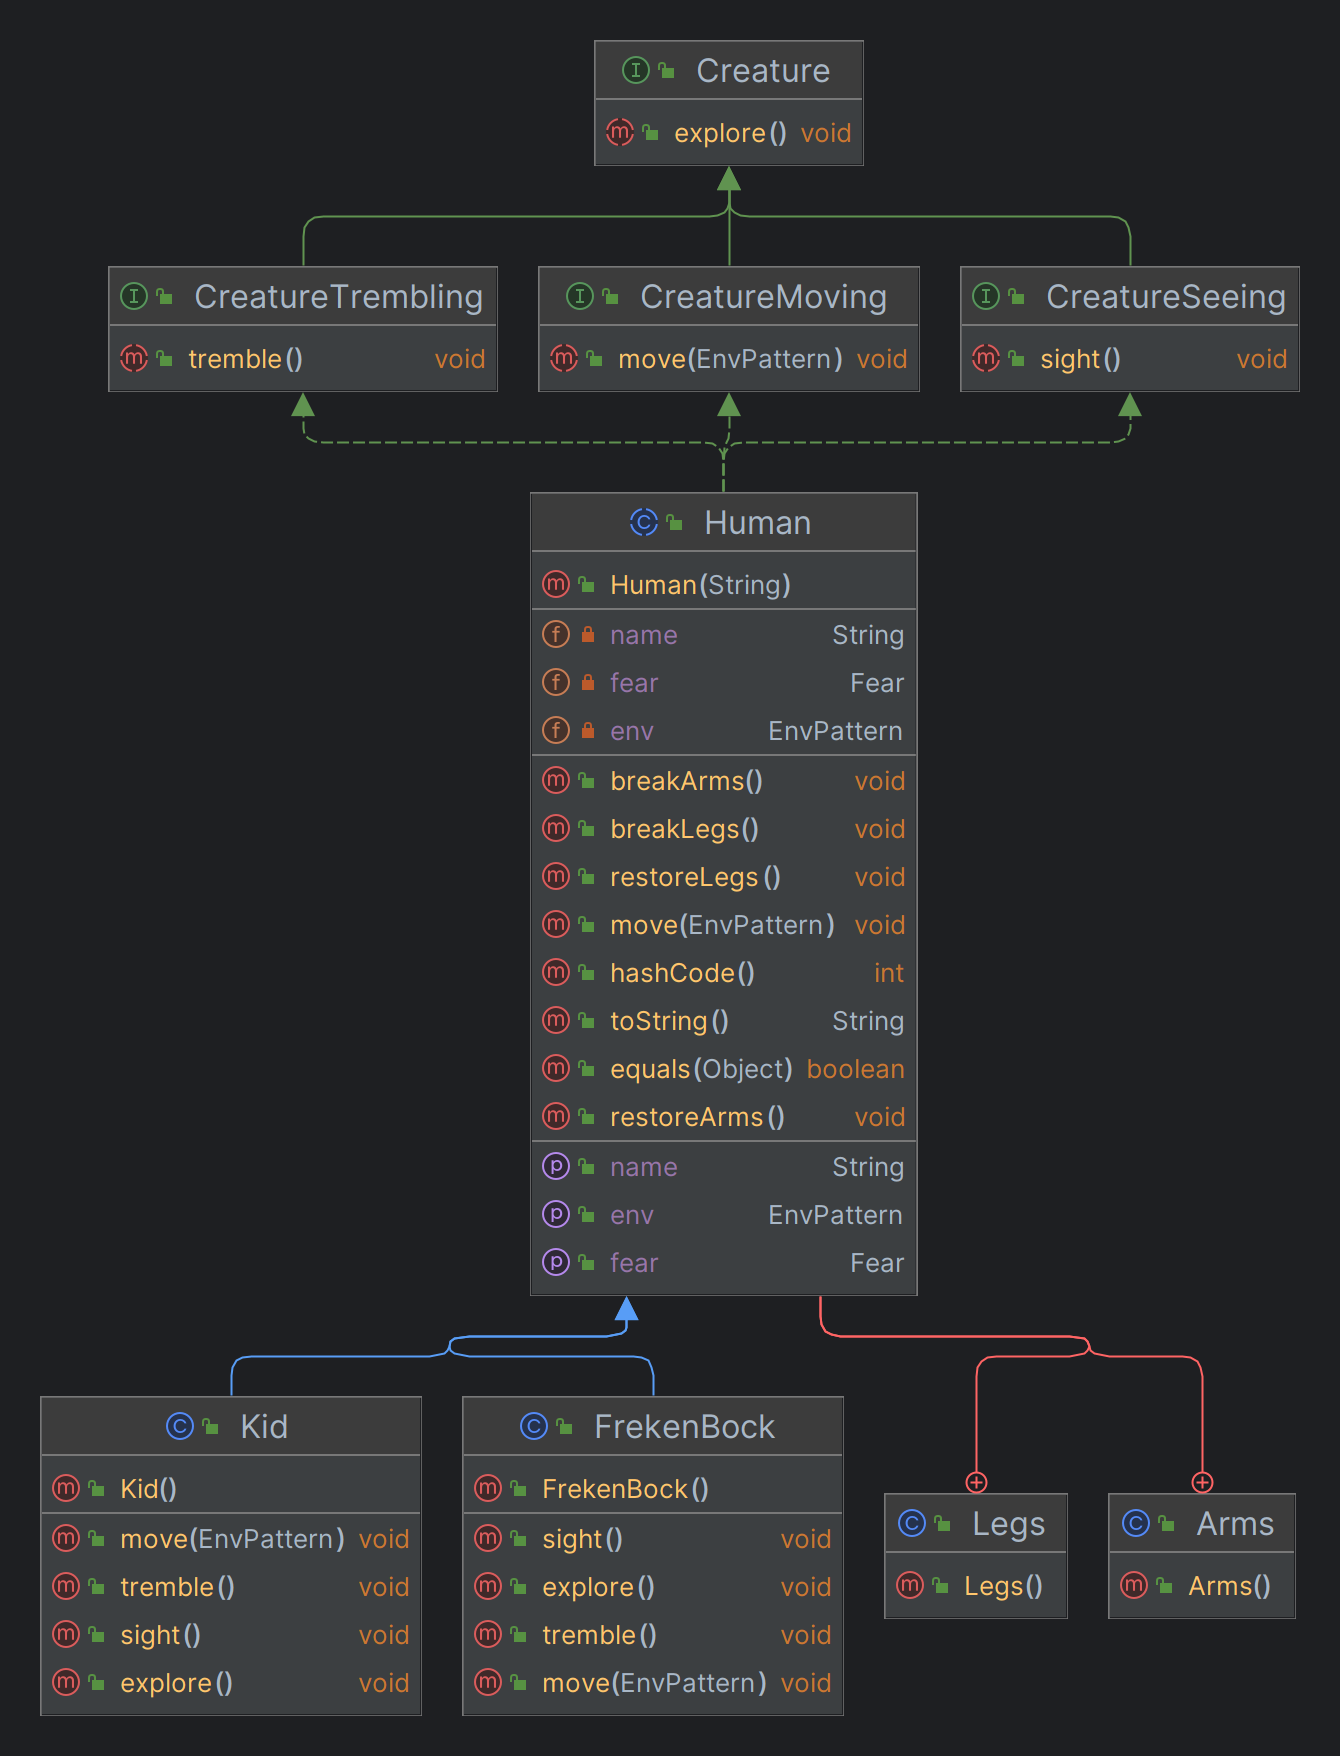
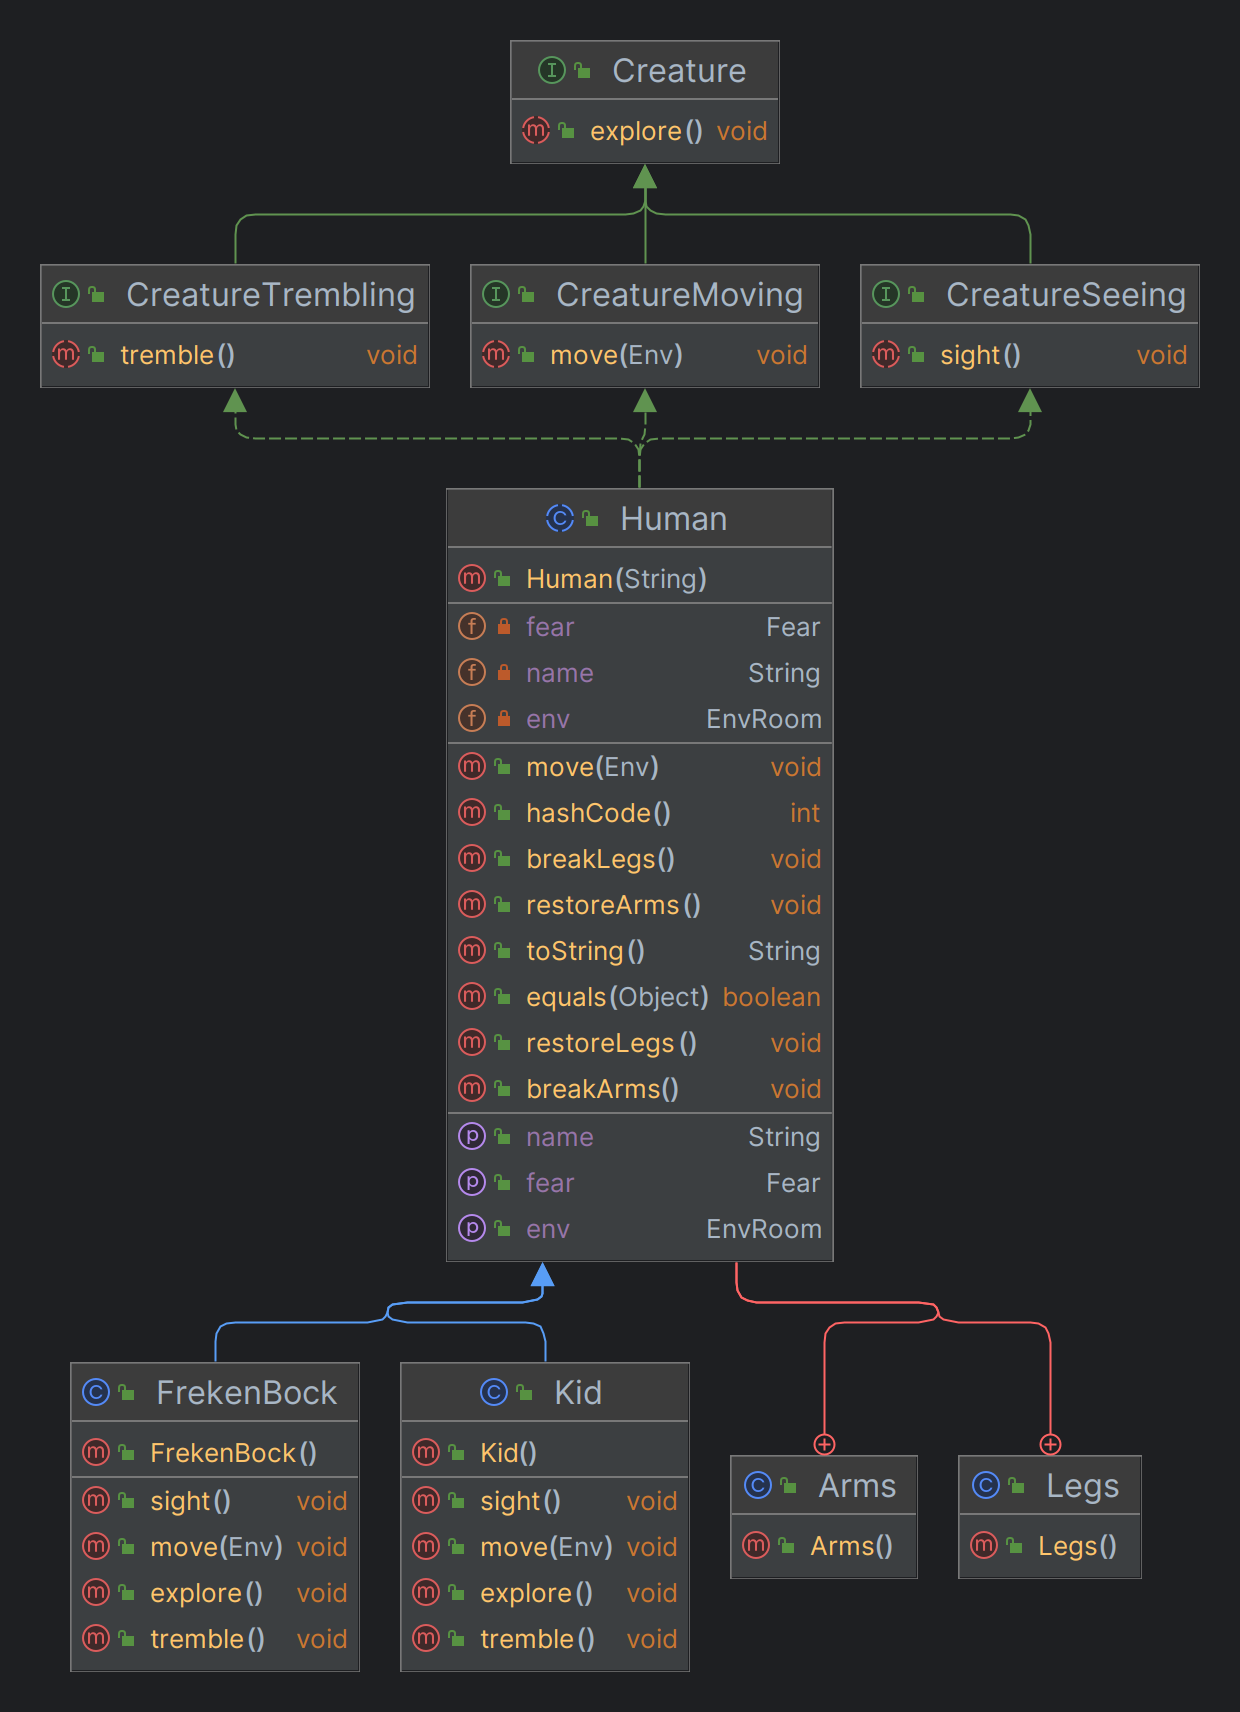
Lab 3 done, working on lab 4

Changed region(s): [[0.0306, 0.0, 0.9806, 0.9907], [0.7968, 0.743, 0.8274, 0.7739]]

diff --git a/src/lab3/env/RoomWorld.java b/src/lab3/env/RoomWorld.java
@@ -4,17 +4,17 @@ import lab3.*;
 
 import java.util.Random;
 
-public class RoomWorld extends EnvPattern implements EnvInput, EnvOutput, World {
+public class RoomWorld extends EnvRoom implements EnvInput, EnvOutput, World {
     public Human[] humans;
 
-    public RoomWorld(String name, EnvPattern[] env, Human ... humans) {
+    public RoomWorld(String name, EnvRoom[] env, Human ... humans) {
         super(name, env);
         this.humans = humans;
     }
 
     @Override
     public void enter(CreatureMoving c) {
-        EnvPattern door = find("Входная дверь");
+        EnvRoom door = findEnv("Входная дверь");
 
         if (door instanceof Door) {
             ((Door)door).open();
@@ -26,7 +26,7 @@ public class RoomWorld extends EnvPattern implements EnvInput, EnvOutput, World 
 
     @Override
     public void leave(CreatureMoving c) {
-        EnvPattern door = find("Входная дверь");
+        EnvRoom door = findEnv("Входная дверь");
 
         if (door instanceof Door) {
             ((Door)door).open();
@@ -40,7 +40,7 @@ public class RoomWorld extends EnvPattern implements EnvInput, EnvOutput, World 
     public void touch(Human h) {
         System.out.println(h.getName() +
                 " зачем-то прикоснулся к комнате\nКомната сочла это приятным и возбудилась");
-        find().touch(h);
+        findEnv().touch(h);
     }
 
     private void separate() {
@@ -48,10 +48,10 @@ public class RoomWorld extends EnvPattern implements EnvInput, EnvOutput, World 
     }
 
     public void simulate(int steps) {
-        if (find("Входная дверь") != null) {
+        if (findEnv("Входная дверь") != null) {
             for (int i = 0; i < steps; i++) {
                 // получаем случайную среду и случайного человека
-                EnvPattern rEnv = find();
+                EnvRoom rEnv = findEnv();
                 Human rHuman = humans[new Random().nextInt(humans.length)];
 
                 if(rHuman.getEnv() != null) {

diff --git a/src/lab3/EnvRoom.java b/src/lab3/EnvRoom.java
@@ -4,29 +4,29 @@ import java.util.Arrays;
 import java.util.Objects;
 import java.util.Random;
 
-public abstract class EnvPattern implements Env{
-    private EnvPattern[] env = {};
+public abstract class EnvRoom implements Env{
+    private EnvRoom[] env = {};
 
     private String name;
 
-    public EnvPattern(String name) { setName(name);}
-    public EnvPattern(String name, EnvPattern[] env) {
+    public EnvRoom(String name) { setName(name);}
+    public EnvRoom(String name, EnvRoom[] env) {
         setName(name);
         setEnv(env);
     }
 
-    public EnvPattern[] getEnv() { return env; }
+    public EnvRoom[] getEnv() { return env; }
 
-    public void setEnv(EnvPattern[] env) {
+    public void setEnv(EnvRoom[] env) {
         this.env = env;
     }
 
-    public EnvPattern find(){
+    public EnvRoom findEnv(){
         int r = new Random().nextInt(env.length);
         return env[r];
     }
-    public EnvPattern find(String name){
-        for (EnvPattern env: getEnv()) if(Objects.equals(env.getName(), name)) return env;
+    public EnvRoom findEnv(String name){
+        for (EnvRoom env: getEnv()) if(Objects.equals(env.getName(), name)) return env;
         return null;
     }
 
@@ -39,7 +39,7 @@ public abstract class EnvPattern implements Env{
     }
 
     public void touchEnv(Human h) {
-        for (EnvPattern e: getEnv()) {
+        for (EnvRoom e: getEnv()) {
             e.touch(h);
         }
     }
@@ -47,7 +47,7 @@ public abstract class EnvPattern implements Env{
     @Override
     public boolean equals(Object o) {
         if (this == o) return true;
-        if (!(o instanceof EnvPattern env1)) return false;
+        if (!(o instanceof EnvRoom env1)) return false;
 
         if (!Arrays.equals(env, env1.env)) return false;
         return name.equals(env1.name);

diff --git a/src/lab3/Main.java b/src/lab3/Main.java
@@ -10,18 +10,16 @@ public class Main {
         Window windowCourt = new Window("Окно на внутренний двор");
         Window windowStreet = new Window("Окно на улицу");
         Bell bell = new Bell("Колокол на крыше");
-        Cord cord = new Cord("Шнут от колокола", new EnvPattern[]{bell});
+        Cord cord = new Cord("Шнут от колокола", new EnvRoom[]{bell});
 
         FrekenBock frekenBock = new FrekenBock();
         Kid kid = new Kid();
 
-        RoomWorld roomWorld = new RoomWorld("Комната", new EnvPattern[]{door, windowCourt, windowStreet, cord}, frekenBock, kid);
-        roomWorld.simulate(5);
+        RoomWorld roomWorld = new RoomWorld("Комната", new EnvRoom[]{door, windowCourt, windowStreet, cord}, frekenBock, kid);
+        roomWorld.simulate(6);
     }
 }
 
-//    отличие отнерфейсов от абстрактных классов
-//    solid
-//    настледование и реализация интерфейсов
-//    дефолтные методы в интерфейсах
-//    как связаны hashcode и equals
+// Называть интерфейсы прилагательными
+// Функц программирование
+// Enum

diff --git a/src/lab3/Human.java b/src/lab3/Human.java
@@ -1,6 +1,6 @@
 package lab3;
 
-public abstract class Human implements CreatureSeeing, CreatureTrembling, CreatureMoving{
+public abstract class Human implements Creature, CreatureSeeing, CreatureTrembling, CreatureMoving{
     public Legs legs = new Legs();
     public Arms arms = new Arms();
 
@@ -8,7 +8,7 @@ public abstract class Human implements CreatureSeeing, CreatureTrembling, Creatu
 
     private String name;
 
-    private EnvPattern env;
+    private EnvRoom env;
 
     public Human(String name) {
         setName(name);
@@ -30,12 +30,12 @@ public abstract class Human implements CreatureSeeing, CreatureTrembling, Creatu
         this.name = name;
     }
 
-    public EnvPattern getEnv() {
+    public EnvRoom getEnv() {
         return env;
     }
 
     @Override
-    public void move(EnvPattern env) {
+    public void move(EnvRoom env) {
         this.env = env;
     }
 

diff --git a/src/lab3/humans/Kid.java b/src/lab3/humans/Kid.java
@@ -1,9 +1,6 @@
 package lab3.humans;
 
-import lab3.CurtainState;
-import lab3.EnvPattern;
-import lab3.Fear;
-import lab3.Human;
+import lab3.*;
 import lab3.env.Cord;
 import lab3.env.Window;
 
@@ -25,7 +22,7 @@ public class Kid extends Human {
     }
 
     @Override
-    public void move(EnvPattern env) {
+    public void move(EnvRoom env) {
         super.move(env);
         if(env != null) System.out.println(getName() + " переместился к " + env.getName());
         else System.out.println(getName() + " переместился в пустоту");

diff --git a/src/lab3/humans/FrekenBock.java b/src/lab3/humans/FrekenBock.java
@@ -1,6 +1,6 @@
 package lab3.humans;
 
-import lab3.EnvPattern;
+import lab3.EnvRoom;
 import lab3.Fear;
 import lab3.Human;
 import lab3.env.Cord;
@@ -21,7 +21,7 @@ public class FrekenBock extends Human {
     }
 
     @Override
-    public void move(EnvPattern env) {
+    public void move(EnvRoom env) {
         super.move(env);
         if(env != null) System.out.println(getName() + " переместилась к " + env.getName());
         else System.out.println(getName() + " переместилась в пустоту");

diff --git a/src/lab3/env/Cord.java b/src/lab3/env/Cord.java
@@ -1,10 +1,10 @@
 package lab3.env;
 
-import lab3.EnvPattern;
+import lab3.EnvRoom;
 import lab3.Human;
 
-public class Cord extends EnvPattern {
-    public Cord(String name, EnvPattern[] env) {
+public class Cord extends EnvRoom {
+    public Cord(String name, EnvRoom[] env) {
         super(name, env);
     }
 

diff --git a/src/lab3/env/Window.java b/src/lab3/env/Window.java
@@ -2,7 +2,7 @@ package lab3.env;
 
 import lab3.*;
 
-public class Window extends EnvPattern implements EnvOutput {
+public class Window extends EnvRoom implements EnvOutput {
     private CurtainState curtain = CurtainState.CLOSED;
 
     public Window(String name) {

diff --git a/src/lab3/env/Door.java b/src/lab3/env/Door.java
@@ -1,9 +1,9 @@
 package lab3.env;
 
-import lab3.EnvPattern;
+import lab3.EnvRoom;
 import lab3.Human;
 
-public class Door extends EnvPattern {
+public class Door extends EnvRoom {
     private boolean isOpen = false;
 
     public Door(String name) {

diff --git a/src/lab3/env/Bell.java b/src/lab3/env/Bell.java
@@ -1,9 +1,9 @@
 package lab3.env;
 
-import lab3.EnvPattern;
+import lab3.EnvRoom;
 import lab3.Human;
 
-public class Bell extends EnvPattern {
+public class Bell extends EnvRoom {
     public Bell(String name) {
         super(name);
     }

diff --git a/src/lab3/CreatureMoving.java b/src/lab3/CreatureMoving.java
@@ -1,5 +1,5 @@
 package lab3;
 
-public interface CreatureMoving extends Creature{
-    void move(EnvPattern e);
+public interface CreatureMoving{
+    void move(EnvRoom e);
 }

diff --git a/src/lab3/CreatureTrembling.java b/src/lab3/CreatureTrembling.java
@@ -1,5 +1,5 @@
 package lab3;
 
-public interface CreatureTrembling extends Creature{
+public interface CreatureTrembling {
     void tremble();
 }
